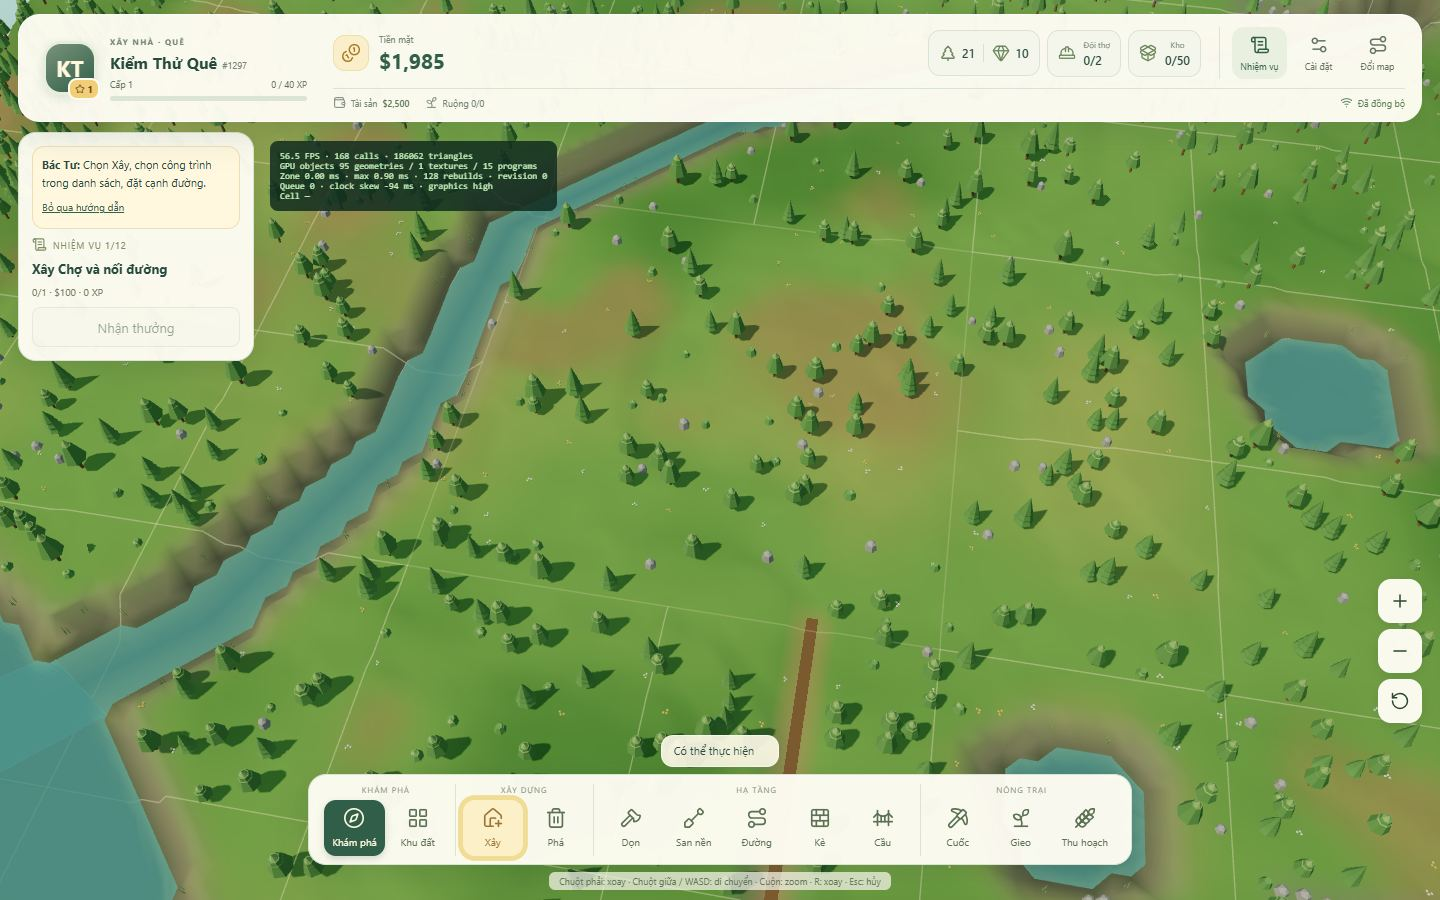
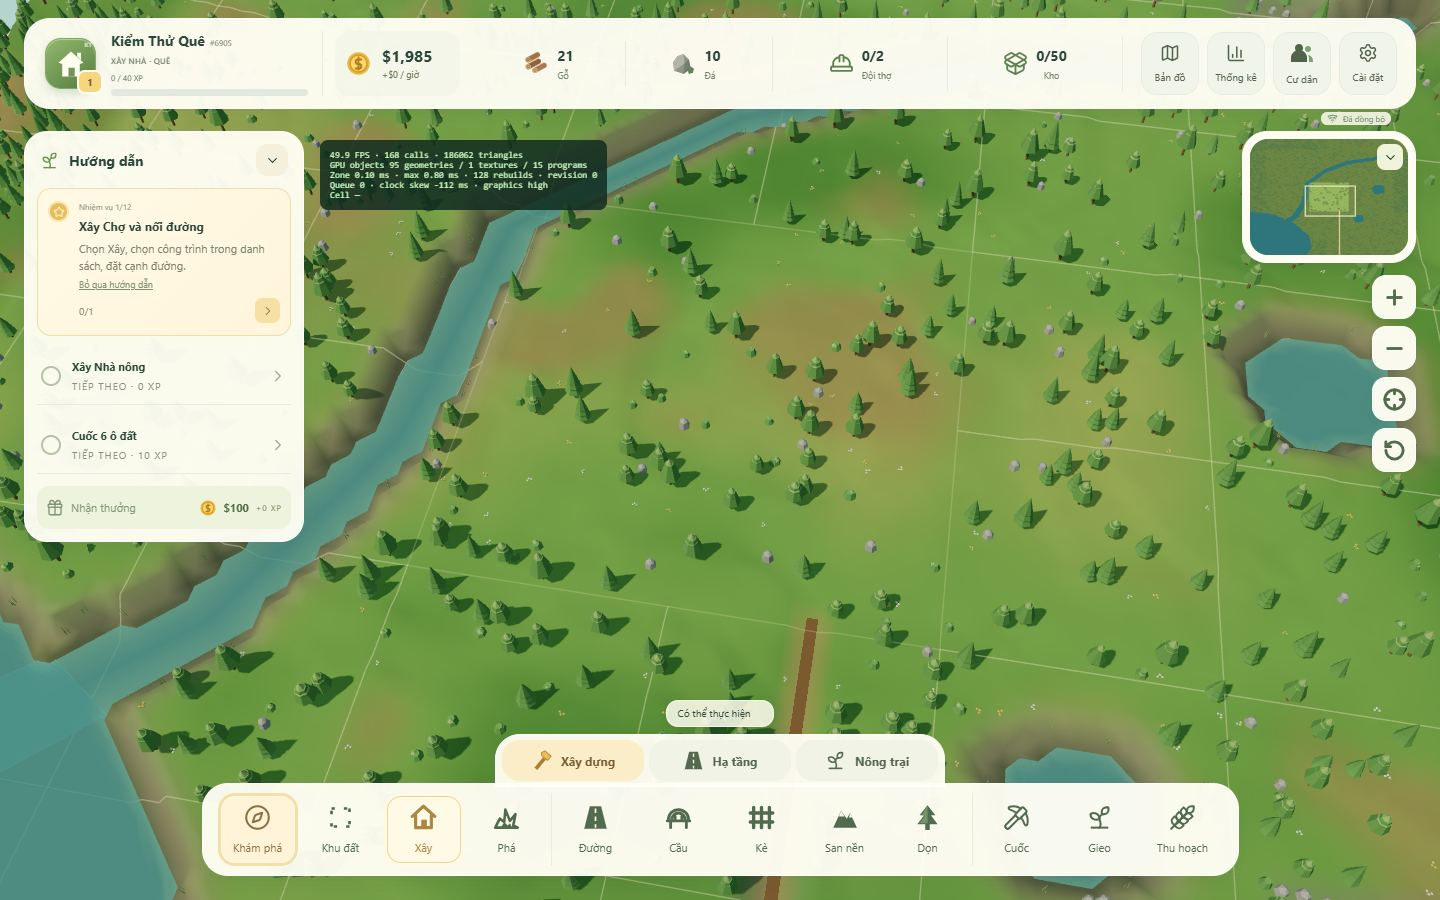
evidence: production smoke with the committed UI work; coordination note

Changed region(s): [[0.0, 0.0, 1.0, 0.6222], [0.125, 0.7778, 0.875, 0.9956], [0.9375, 0.6222, 1.0, 0.8089]]

diff --git a/docs/reports/G3-coordination-claude.md b/docs/reports/G3-coordination-claude.md
@@ -71,3 +71,11 @@ working tree, `node scripts/g3-e2e.mjs` passed **26/26** at 12:5x (an earlier ru
 `authoredQuestProgress is not defined`). The Docker stack on :8090 was rebuilt from committed `HEAD` only
 (`4a5f761`, includes VFX/audio/telemetry) via a temporary worktree; production smoke PASS. Please commit your UI
 work when ready and redeploy with `pnpm deploy:up` (that builds from the working tree).
+
+## Committed on behalf of other agents (2026-10-10 ~13:45, user said "commit thay")
+
+- `2ee83ba` UI agent's in-game UI work (one unused import removed from `scripts/e2e-feature-matrix.mjs` for lint).
+- `f8142c4` Codex economy bot + `sim-economy.ts` (unchanged).
+- `40402c5` Codex G3 reports, audit scripts and evidence (45 MB render profile and 13 MB canvas PNGs left local).
+Verified before committing: `pnpm check` 700/700, G3 E2E 26/26; after `pnpm deploy:up`: production smoke PASS.
+If you continue working, pull from these commits instead of re-adding the files.
